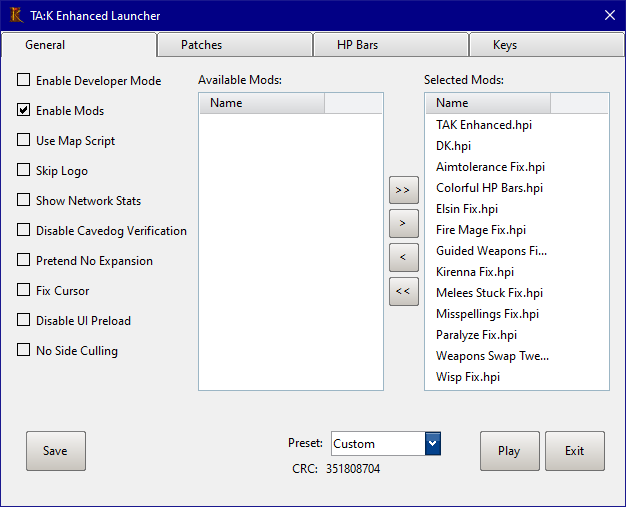
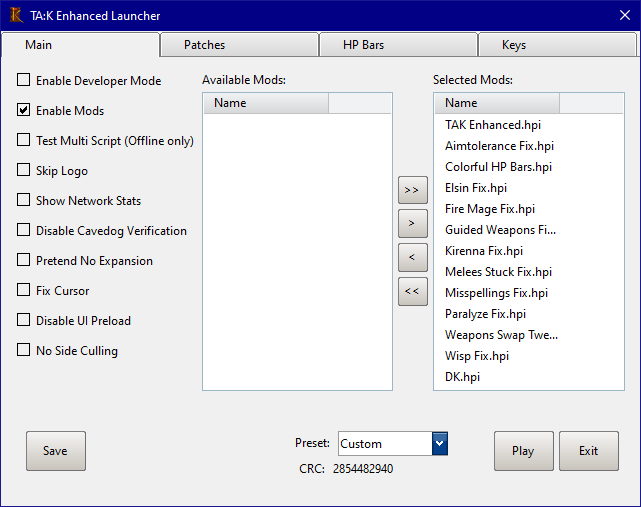
Rename 'Use Map Script' to 'Test Multi Script' with an obs.

diff --git a/patch/TAKEnhancedLauncher/TAKEnhancedLauncher/source/tab_pages/tab_page_main.cpp b/patch/TAKEnhancedLauncher/TAKEnhancedLauncher/source/tab_pages/tab_page_main.cpp
@@ -25,7 +25,7 @@ void tab_page_main::initialize()
     this->add_widget(cb_enableMods, "checkboxes");
     this->add_binding(create_checkbox_binding(cb_enableMods, this->gameConfig->mods.enabled));
 
-    cb_useMapScript = std::make_shared<nana::checkbox>(*this, "Use Map Script");
+    cb_testMultiScript = std::make_shared<nana::checkbox>(*this, "Test Multi Script (Offline only)");
     cb_skipLogo = std::make_shared<nana::checkbox>(*this, "Skip Logo");
     cb_showNetworkStats = std::make_shared<nana::checkbox>(*this, "Show Network Stats");
     cb_disableCavedogVerification = std::make_shared<nana::checkbox>(*this, "Disable Cavedog Verification");
@@ -34,7 +34,7 @@ void tab_page_main::initialize()
     cb_disableUiPreload = std::make_shared<nana::checkbox>(*this, "Disable UI Preload");
     cb_noSideCulling = std::make_shared<nana::checkbox>(*this, "No Side Culling");
 
-    this->add_widget(cb_useMapScript, "checkboxes");
+    this->add_widget(cb_testMultiScript, "checkboxes");
     this->add_widget(cb_skipLogo, "checkboxes");
     this->add_widget(cb_showNetworkStats, "checkboxes");
     this->add_widget(cb_disableCavedogVerification, "checkboxes");
@@ -43,7 +43,7 @@ void tab_page_main::initialize()
     this->add_widget(cb_disableUiPreload, "checkboxes");
     this->add_widget(cb_noSideCulling, "checkboxes");
 
-    this->add_binding(create_checkbox_binding(cb_useMapScript, this->gameConfig->useMapScript.enabled));
+    this->add_binding(create_checkbox_binding(cb_testMultiScript, this->gameConfig->testMultiScript.enabled));
     this->add_binding(create_checkbox_binding(cb_skipLogo, this->gameConfig->skipLogo.enabled));
     this->add_binding(create_checkbox_binding(cb_showNetworkStats, this->gameConfig->showNetworkStats.enabled));
     this->add_binding(create_checkbox_binding(cb_disableCavedogVerification, this->gameConfig->disableCavedogVerification.enabled));

diff --git a/patch/TAKCore/TAKCore/source/TAKCore.cpp b/patch/TAKCore/TAKCore/source/TAKCore.cpp
@@ -6,7 +6,7 @@
 void TAKCore::init(unsigned int baseAddress) {
     TAKCore::Functions::executeCommand = (executeCommand_t) (baseAddress + FunctionsOffsets::executeCommand);
 
-    TAKCore::Config::useMapScript = (bool*)(TAKCore::Config::useMapScriptAddress + baseAddress);
+    TAKCore::Config::testMultiScript = (bool*)(TAKCore::Config::testMultiScriptAddress + baseAddress);
     TAKCore::Config::skipLogo = (bool*)(TAKCore::Config::skipLogoAddress + baseAddress);
     TAKCore::Config::showNetworkStats = (bool*)(TAKCore::Config::showNetworkStatsAddress + baseAddress);
     TAKCore::Config::disableCavedogVerification = (bool*)(TAKCore::Config::disableCavedogVerificationAddress + baseAddress);

diff --git a/patch/TAKEnhancedDll/TAKEnhancedDll/include/TAKEnhancedDll/Configs/GameConfig.hpp b/patch/TAKEnhancedDll/TAKEnhancedDll/include/TAKEnhancedDll/Configs/GameConfig.hpp
@@ -15,7 +15,7 @@ struct MeleeStuckFixSettings : GameSetting
 
 struct GameConfig
 {
-    GameSetting useMapScript;
+    GameSetting testMultiScript;
     GameSetting skipLogo;
     GameSetting showNetworkStats;
     GameSetting disableCavedogVerification;
@@ -46,7 +46,7 @@ NLOHMANN_DEFINE_TYPE_NON_INTRUSIVE(
 )
 NLOHMANN_DEFINE_TYPE_NON_INTRUSIVE(
     GameConfig,
-    useMapScript,
+    testMultiScript,
     skipLogo,
     showNetworkStats,
     disableCavedogVerification,

diff --git a/patch/TAKEnhancedLauncher/TAKEnhancedLauncher/include/TAKEnhancedLauncher/tab_pages/tab_page_main.hpp b/patch/TAKEnhancedLauncher/TAKEnhancedLauncher/include/TAKEnhancedLauncher/tab_pages/tab_page_main.hpp
@@ -19,7 +19,7 @@ class tab_page_main : public e_panel
     std::shared_ptr<nana::checkbox> cb_enableDevMode;
     std::shared_ptr<nana::checkbox> cb_enableMods;
 
-    std::shared_ptr<nana::checkbox> cb_useMapScript;
+    std::shared_ptr<nana::checkbox> cb_testMultiScript;
     std::shared_ptr<nana::checkbox> cb_skipLogo;
     std::shared_ptr<nana::checkbox> cb_showNetworkStats;
     std::shared_ptr<nana::checkbox> cb_disableCavedogVerification;

diff --git a/patch/TAKEnhancedDll/TAKEnhancedDll/source/Changes.cpp b/patch/TAKEnhancedDll/TAKEnhancedDll/source/Changes.cpp
@@ -37,8 +37,8 @@ void applyChanges(std::shared_ptr<GameConfig> config, std::shared_ptr<Logger> lo
         installShowHpHook();
     }
 
-    if (config->useMapScript.enabled) {
-        *TAK::Config::useMapScript = true;
+    if (config->testMultiScript.enabled) {
+        *TAK::Config::testMultiScript = true;
         *TAK::Config::noSideCulling = false;
     }
     

diff --git a/patch/TAKCore/TAKCore/include/TAKCore/Config.h b/patch/TAKCore/TAKCore/include/TAKCore/Config.h
@@ -4,8 +4,8 @@ namespace TAKCore
 {
     namespace Config
     {
-        constexpr unsigned int useMapScriptAddress = 0x24185D;
-        extern bool* useMapScript;
+        constexpr unsigned int testMultiScriptAddress = 0x24185D;
+        extern bool* testMultiScript;
 
         constexpr unsigned int skipLogoAddress = 0x24181E;
         extern bool* skipLogo;

diff --git a/patch/TAKCore/TAKCore/source/Config.cpp b/patch/TAKCore/TAKCore/source/Config.cpp
@@ -1,6 +1,6 @@
 #include "TAKCore/Config.h"
 
-bool* TAKCore::Config::useMapScript;
+bool* TAKCore::Config::testMultiScript;
 bool* TAKCore::Config::skipLogo;
 bool* TAKCore::Config::showNetworkStats;
 bool* TAKCore::Config::disableCavedogVerification;
